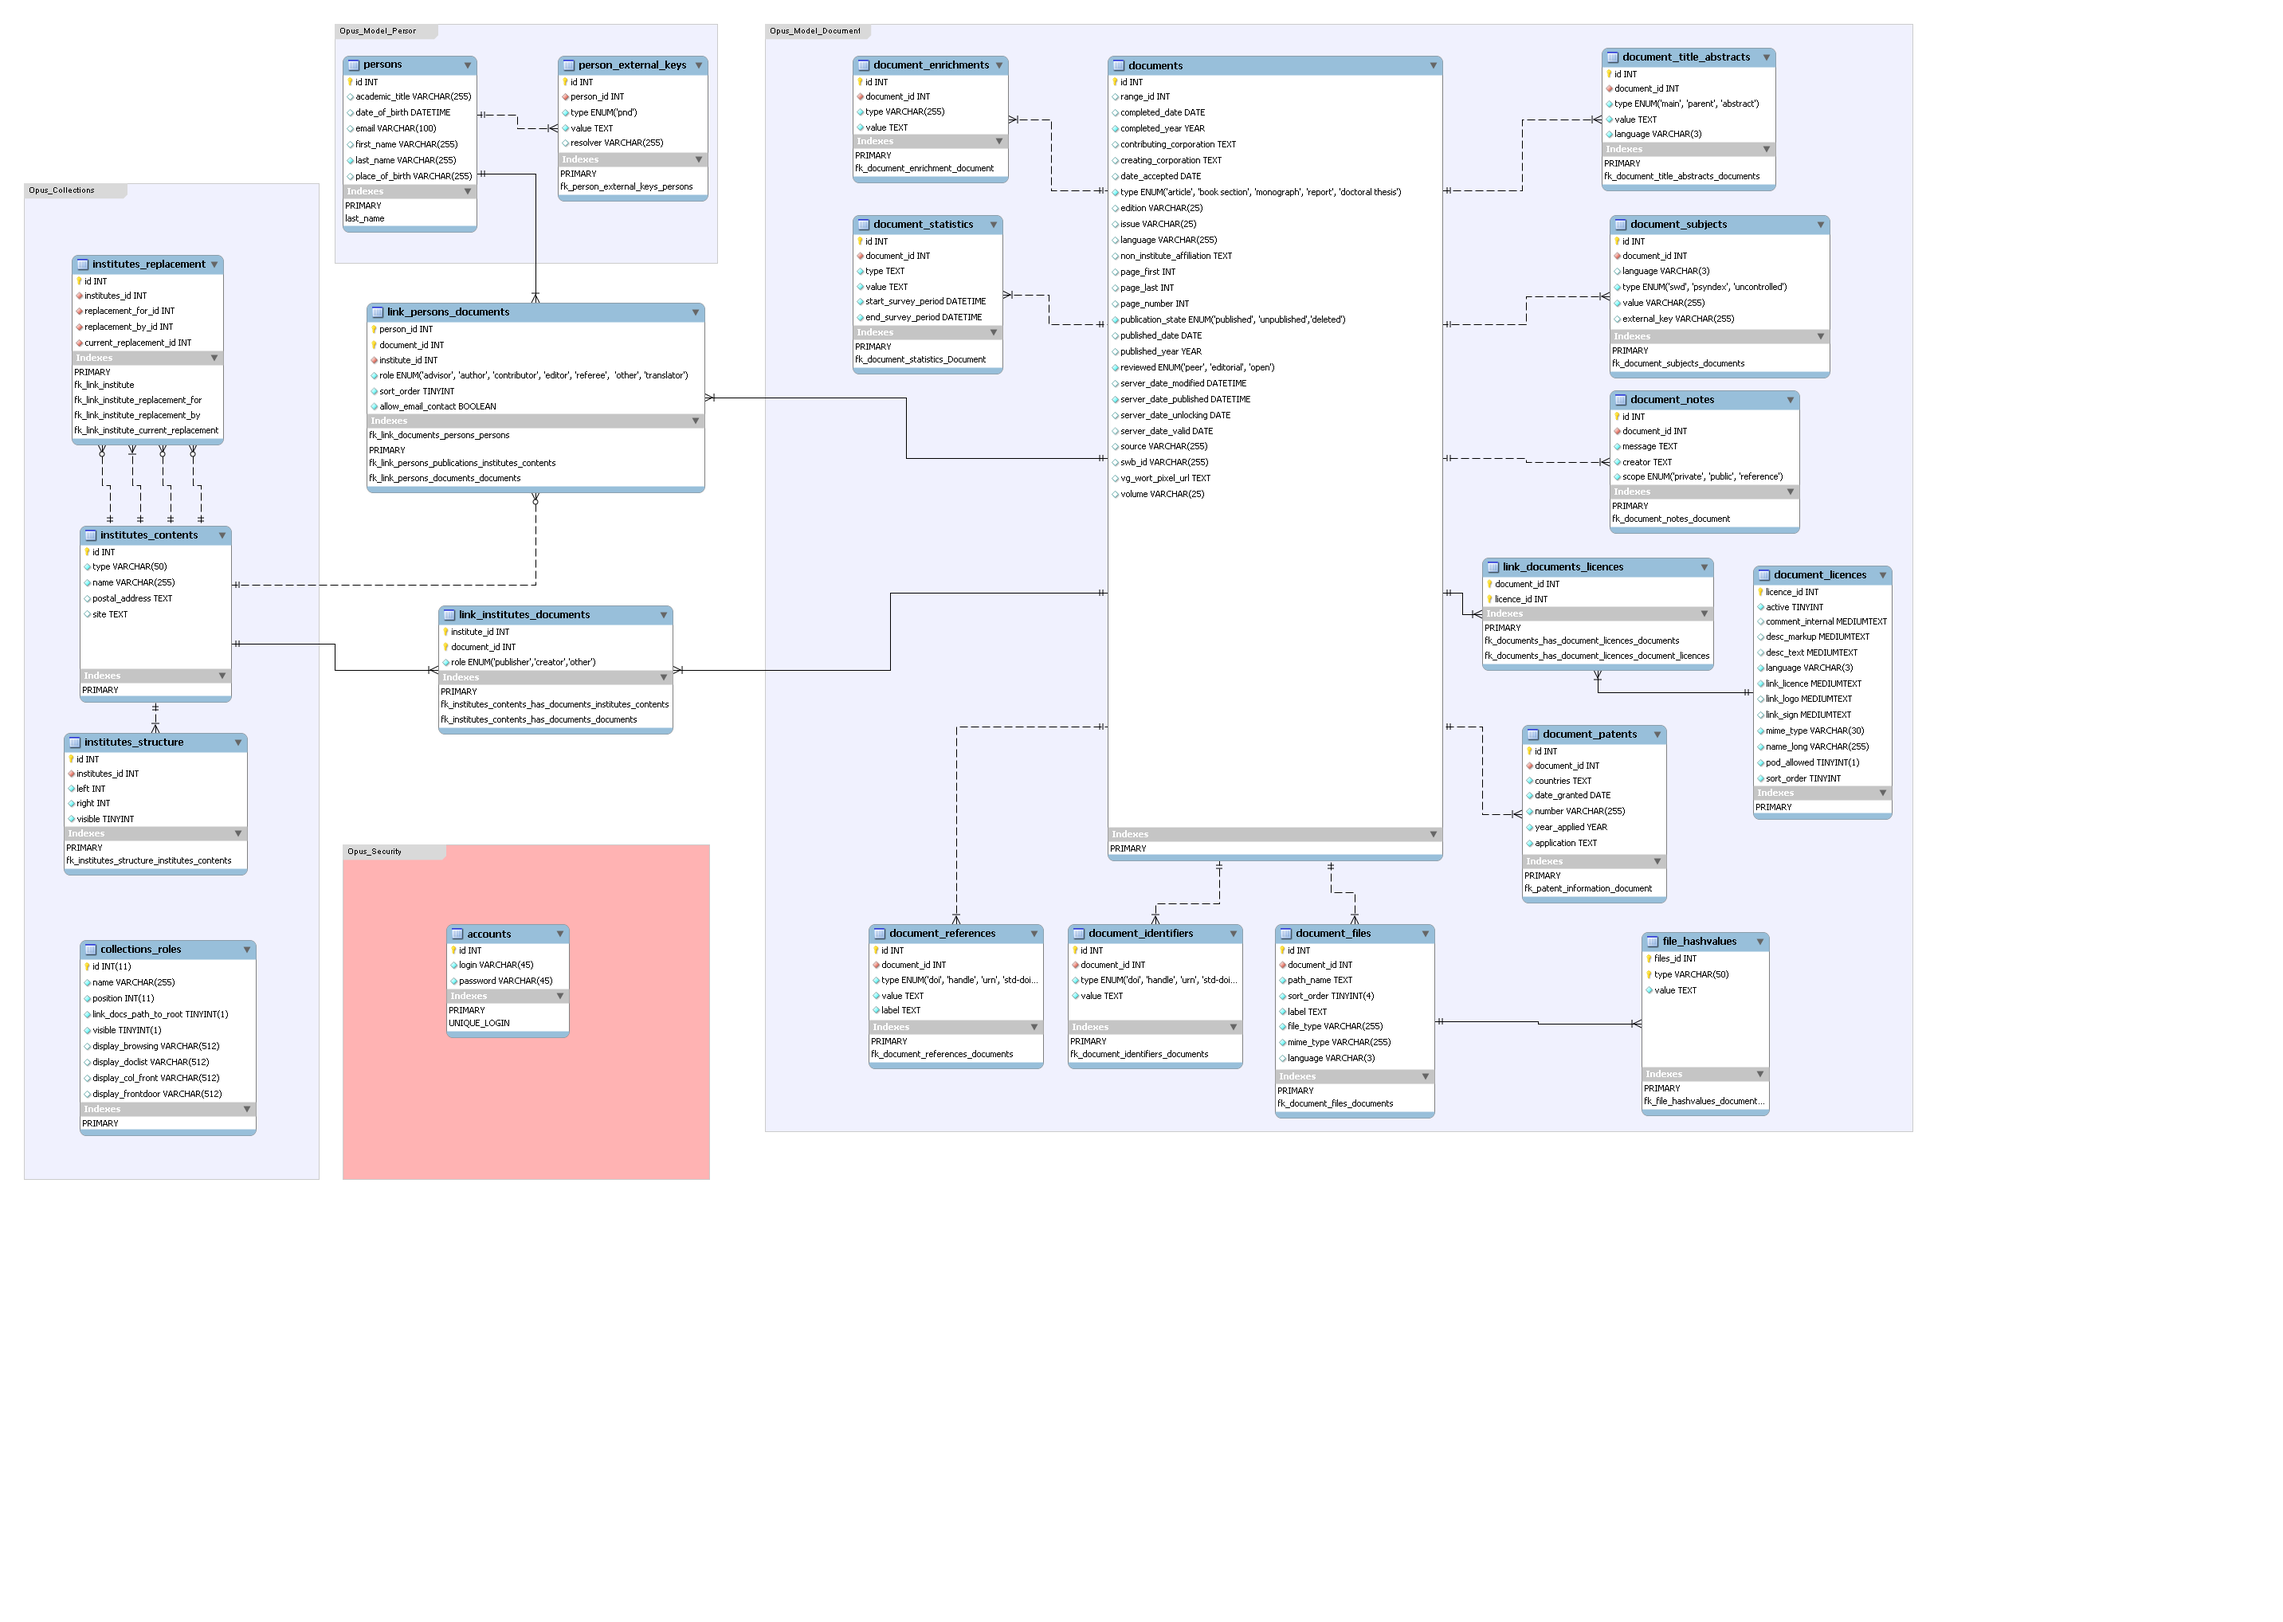
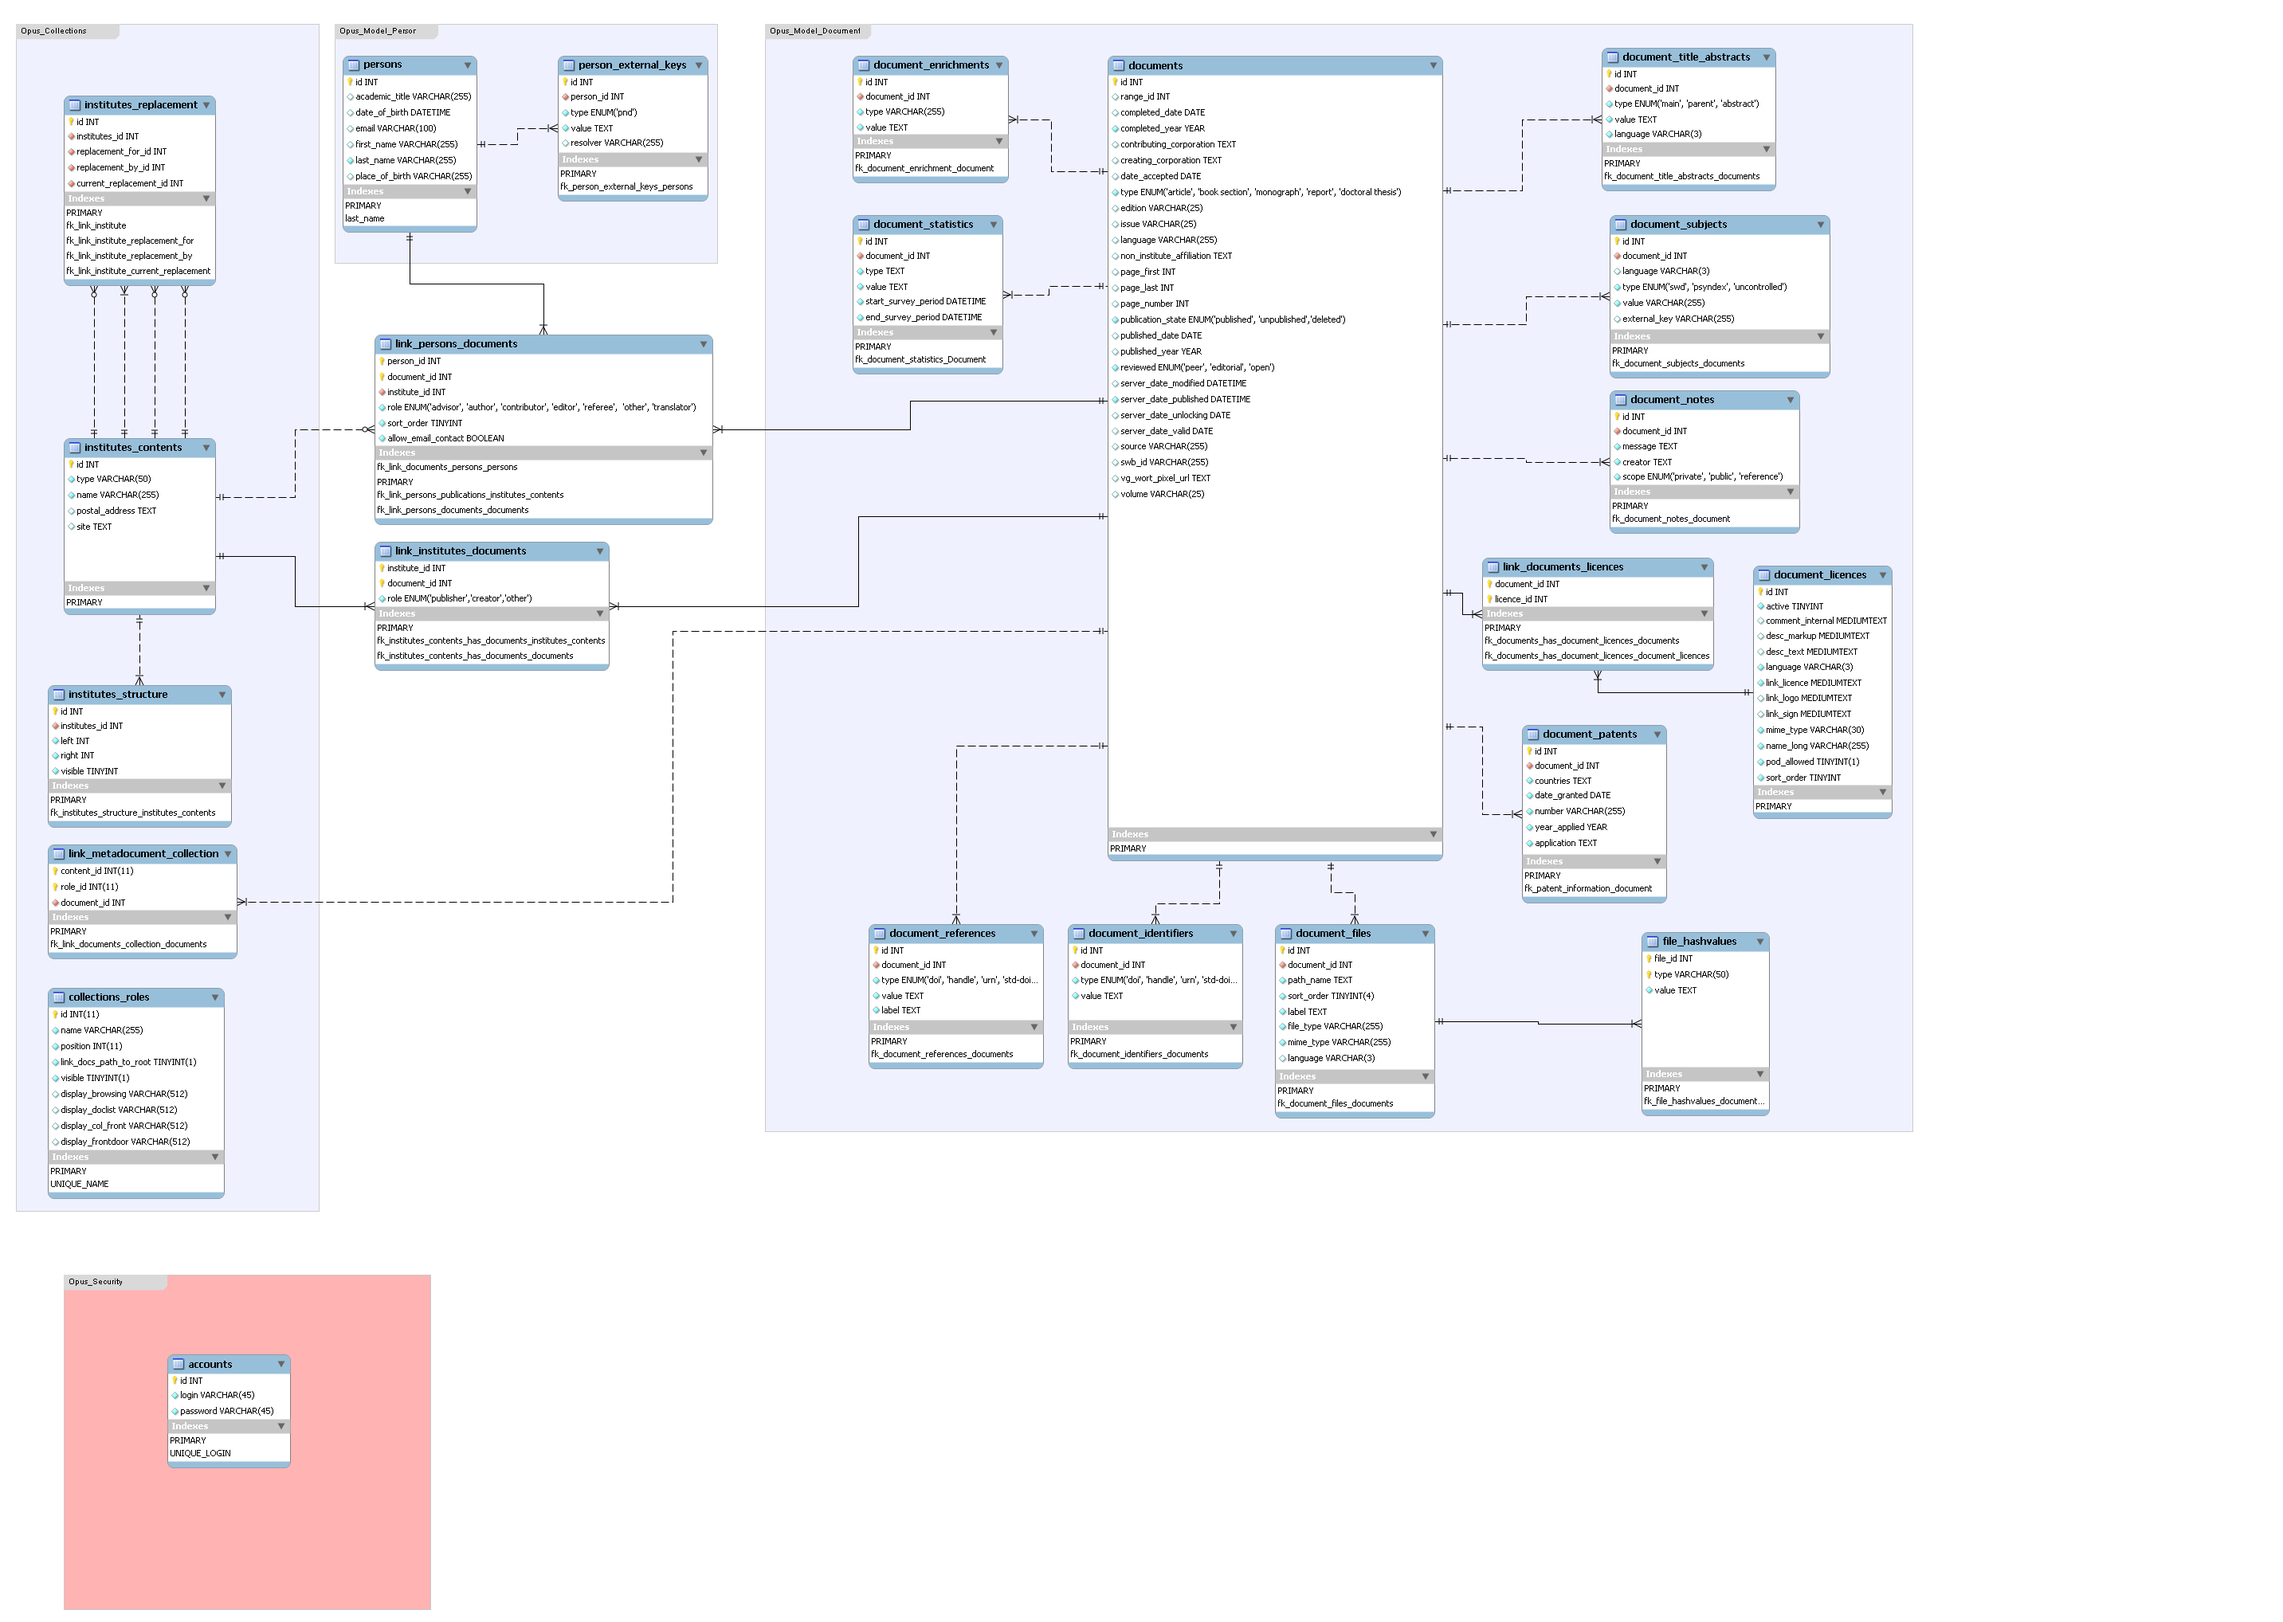
Fixed wrong database definition.
git-svn-id: https://svn.zib.de/opus4dev/framework/trunk@1875 0a49f362-4213-0410-86e3-e96cb6c4fbae

diff --git a/library/Opus/File/Hash.php b/library/Opus/File/Hash.php
@@ -112,7 +112,7 @@ class Opus_File_Hash {
         // Generate hash values
         $hash_data = $this->generate_hash($filedata, $method);
         $hashdb_data = array(
-            'files_id' => $fileId,
+            'file_id' => $fileId,
             'type' => $method,
             'value' => $hash_data['hashvalue']
             );
@@ -133,7 +133,7 @@ class Opus_File_Hash {
             throw new InvalidArgumentException('Identifier is not an integer value.');
         }
         $hashdb = new Opus_Db_FileHashvalues();
-        $select = $hashdb->select()->where('files_id = ?' , $fileId);
+        $select = $hashdb->select()->where('file_id = ?' , $fileId);
         $result = $hashdb->fetchAll($select)->toArray();
         return $result;
     }

diff --git a/library/Opus/Db/FileHashvalues.php b/library/Opus/Db/FileHashvalues.php
@@ -53,7 +53,7 @@ class Opus_Db_FileHashvalues extends Opus_Db_TableGateway {
      *
      * @var array
      */
-    protected $_primary = array('files_id', 'type');
+    protected $_primary = array('file_id', 'type');
 
     /**
      * Map foreign keys in this table to the column in the table they originate
@@ -63,7 +63,7 @@ class Opus_Db_FileHashvalues extends Opus_Db_TableGateway {
      */
     protected $_referenceMap = array(
             'DocumentFiles' => array(
-                'columns' => 'files_id',
+                'columns' => 'file_id',
                 'refTableClass' => 'Opus_Db_DocumentFiles',
                 'refColumns' => 'id',
                 ),
